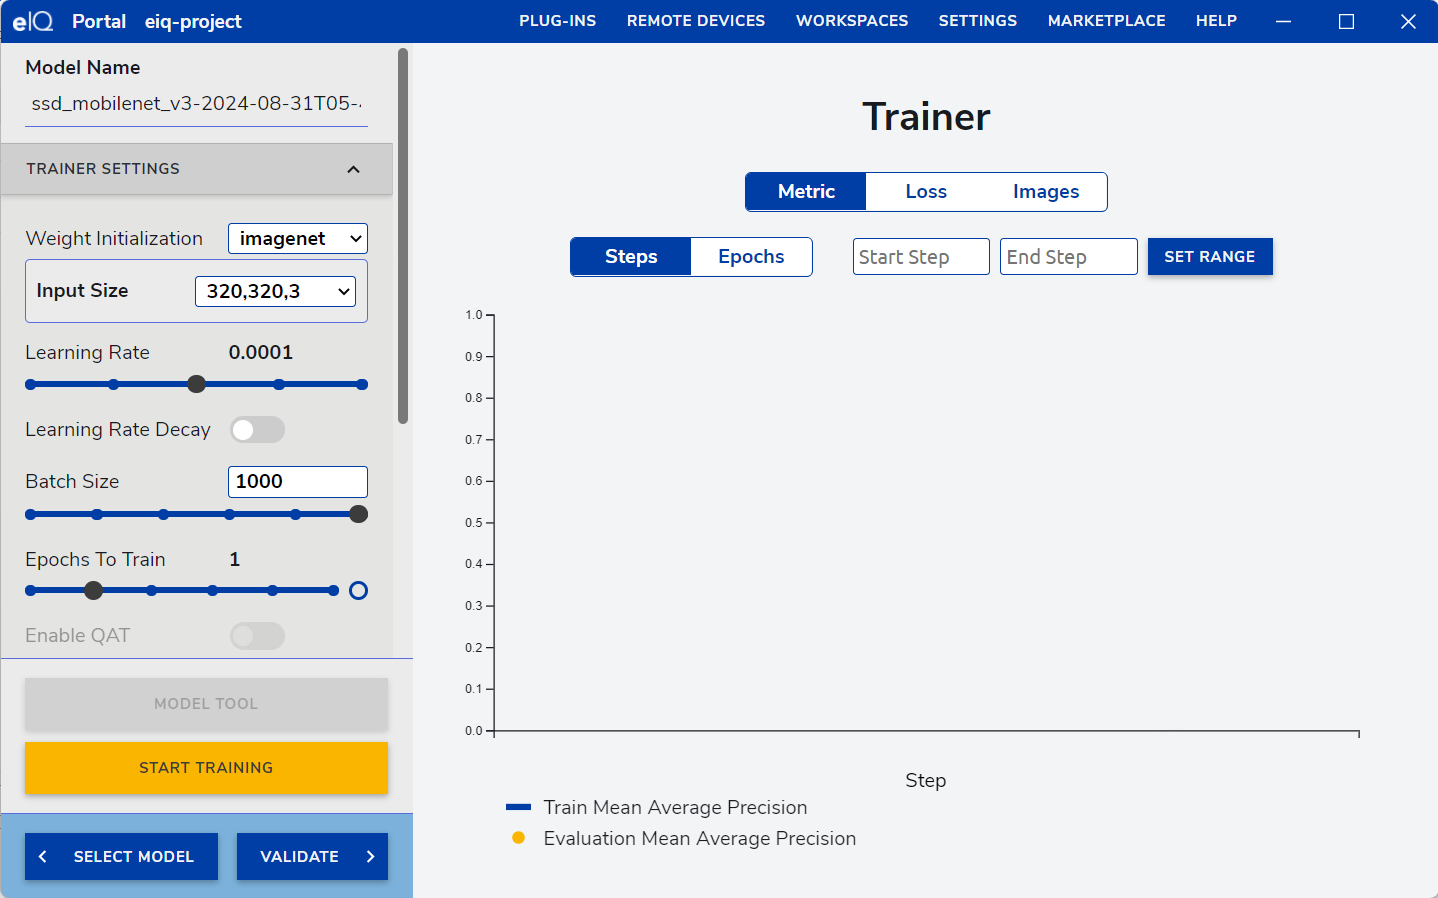
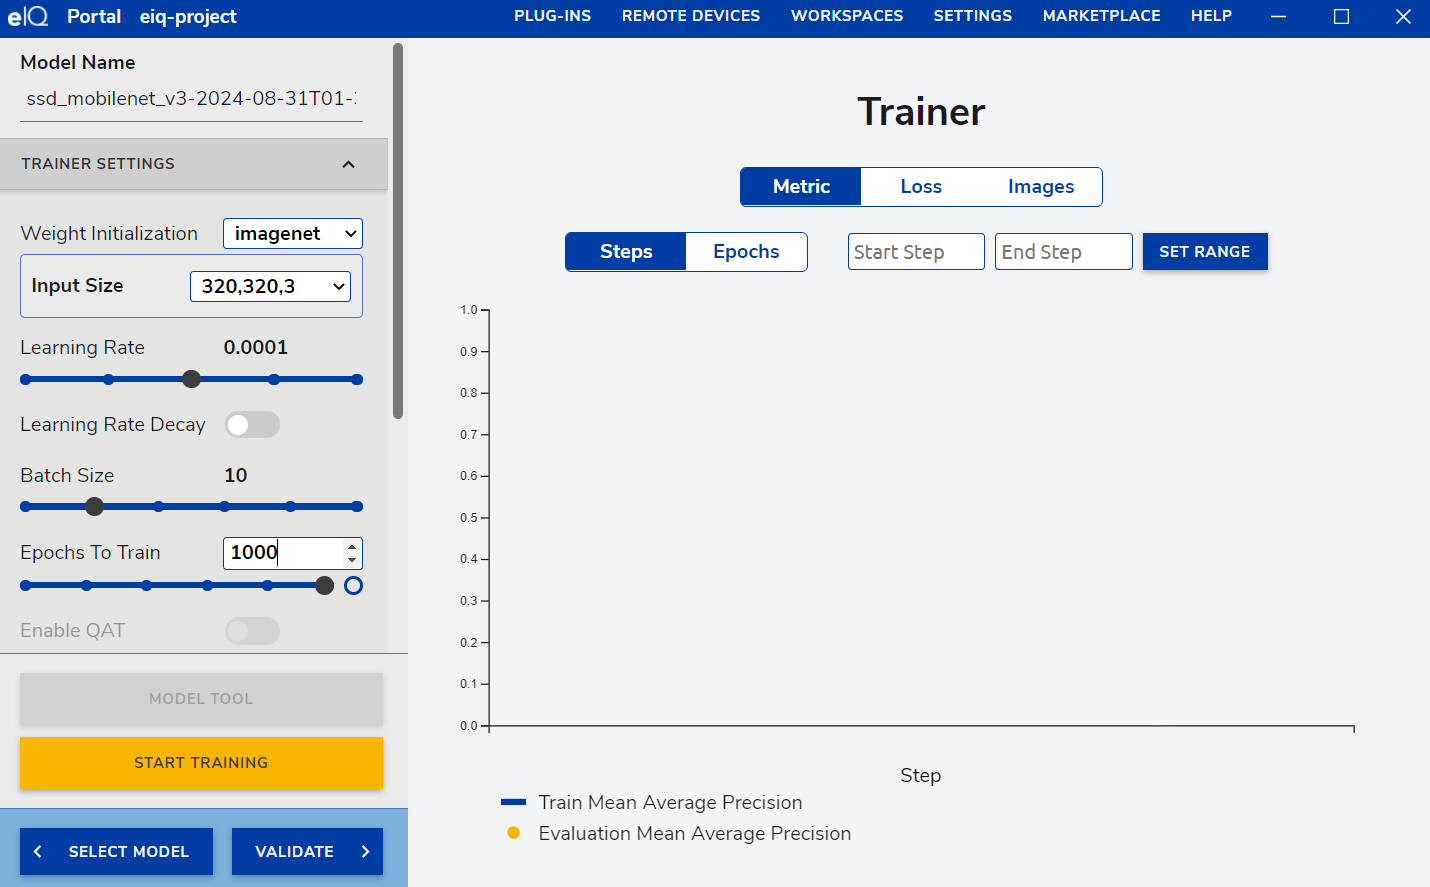
Model Creation Updated

diff --git a/MODEL_CREATION.md b/MODEL_CREATION.md
@@ -1,0 +1,77 @@
+# Industrial Dress Code Detection
+Simple AI demonstration model is created for detecting the Industrial Dress Code whether the person wore the helmet or not. Model creation is done using the NXP eiq toolkit. The eIQ Toolkit is a machine-learning software development environment that enables the use of ML algorithms on
+NXP microcontrollers, microprocessors, and SoCs.
+
+Create Project
+--------------
+New project can be created by using CREATE PROJECT -> Create blank project as below,
+
+![image info](./imgs/create_project.png)
+
+Import images
+-------------
+Images which is needed for creating the model can be imported using the import button.
+
+![image info](./imgs/import_images.png)
+
+Image Dataset
+-------------
+Here target is to detect the person wore the helmet or not, imported the images with helmet for the dataset.
+
+![image info](./imgs/helmet_dataset.png)
+
+Label for Training
+------------------
+All the imported images which will be used for training should be labeled. Here region specific labeling should be done for all the images as below,
+
+![image info](./imgs/labeling_dataset.png)
+
+Test Dataset
+------------
+Images which will be used for testing the model during training should be marked as test dataset as given below,
+
+![image info](./imgs/test_dataset.png)
+
+Select Model
+------------
+This demostration is detection type, chosen the base model as ssd_mobilenet_v3 Task: detection for training the model.
+
+![image info](./imgs/ssd_mobilenet_detect_model.png)
+
+Training Configuration
+----------------------
+With the dataset creation, training a model needs to be done. Created a simple dataset with 464 Training Images and 77 Test images. Then training parameters are configured as below,
+
+* Weight Initialization => imagenet
+* input size => 320,320,3
+* learning rate => 0.0001
+* Batch size => 10
+* Epochs to traing => 1000
+
+![image info](./imgs/training_config.png)
+
+Training Metrics
+----------------
+During and end of the training, model training metrics information can be seen as below,
+
+![image info](./imgs/training_metrics.png)
+
+Training Loss
+----------------
+During and end of the training, model training loss information can be seen as below,
+
+![image info](./imgs/training_loss.png)
+
+Export Model
+------------
+On completion of training, model can be exported in following formats,
+
+* Deepview RT
+* ONNX
+* Tensorflow Lite
+* Kera
+
+Here exporting a model in Tensorflow Lite model as below, 
+![image info](./imgs/export_model.png)
+
+Exported model can be used for detection application accordingly.
